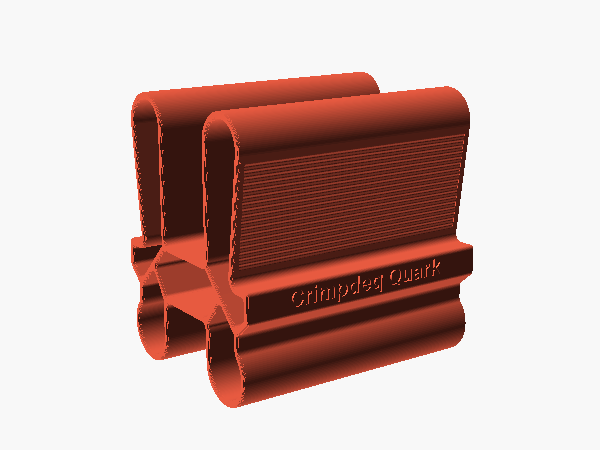
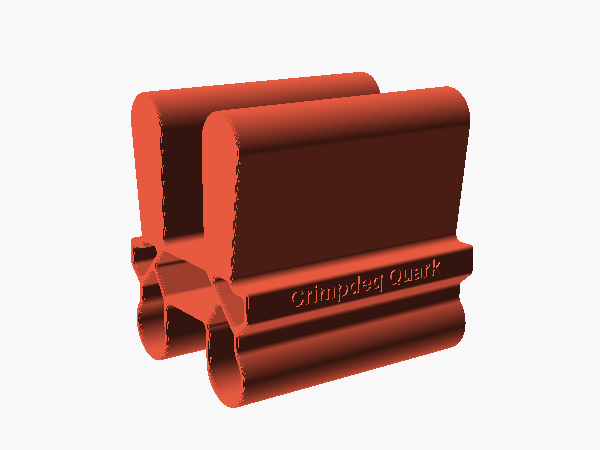
fix: stiffen Quark arms and replace ineffective ridges (#14)

Changed region(s): [[0.33, 0.2489, 0.78, 0.6533], [0.21, 0.2178, 0.27, 0.56]]

diff --git a/docs/src/quark/pinches.md b/docs/src/quark/pinches.md
@@ -13,9 +13,15 @@ on the long arms.
 | Shallow wide | Both heads from outside | 90 mm | |
 | Shallow narrow | One head, the thumb in the gap | 29 mm | 30 mm to the gap's floor |
 
-The long arms widen toward their tips. Their outer faces, where the deep wide pinch holds, carry
-shallow grip ridges (0.4 mm deep, 2.5 mm apart) running along the block, across the direction in
-which the skin slips under load.
+The long arms widen toward their tips. Unlike the hollow hub and cord heads, the long arms are
+solid to reduce flex during the deep wide pinch. They are still separate: for a deep narrow pinch,
+put the thumb between the arms and hold just one ear.
+
+For more traction on the deep wide pinch, try adhesive-backed fine grip tape (around 120–180 grit)
+on the two long arms' outer faces. Cut strips to fit the straight faces, leaving the rounded tips,
+ledge and end edges uncovered. Clean and dry the PETG first; press the tape down firmly and check
+that it does not peel before each session. Start with light loads: abrasive tape can irritate skin.
+Do not put tape on the cord heads or inside their cells.
 
 ## Cord
 
@@ -23,8 +29,9 @@ The cord runs through the cells of both heads and stays there for all four pinch
 1.6 m of 5 mm rated accessory cord: thread it through both heads and knot its two sides together
 below the block. The cord bends over the ends of the head cells, whose edges are rounded.
 
-Quark has not been load-tested. Build up the load gradually, and replace it if it whitens or
-cracks, above all at the ends of the heads.
+The solid-arm revision and grip tape have not been test-printed or load-tested. Build up the load
+gradually, and replace the block if it whitens or cracks, above all at the arm roots and ends of
+the heads. Check whether either arm visibly deflects before using heavier loads.
 
 ## Size
 

diff --git a/docs/src/quark/printing.md b/docs/src/quark/printing.md
@@ -1,6 +1,6 @@
 # Printing
 
-Print Quark in PETG (HF) with these settings. It has not been test-printed yet.
+Print Quark in PETG (HF) with these settings. The solid-arm revision has not been test-printed yet.
 
 | Setting | Value |
 |---|---|
@@ -11,13 +11,14 @@ Print Quark in PETG (HF) with these settings. It has not been test-printed yet.
 | Supports | None |
 | Brim | 5 mm |
 
-The walls are 3 mm thick, so 5 walls print them solid; the infill setting has nothing left to
-fill.
+The hollow hub and head walls are 3 mm thick, so 5 walls print them solid. The long arms now
+have solid cross-sections in the model and receive the selected infill between their perimeters;
+do not use zero infill.
 
 The STL is already in its print pose: standing on an end face, 115 mm tall, the profile flat on the
-plate. In this pose every wall is vertical and needs no supports. Its footprint is only the thin
-walls of the profile, so the brim keeps it from lifting on its first layers. Wash the plate with
-dish soap before printing.
+plate. In this pose the outer walls and cell walls are vertical and need no supports. Its footprint
+includes the thin walls of the profile, so the brim keeps it from lifting on its first layers. Wash
+the plate with dish soap before printing.
 
 Each release has Quark's STL (`crimpdeq-grips-quark.stl`) and a Bambu Studio project for the Bambu
 Lab A1 (`crimpdeq-grips-quark.3mf`) with these settings. To build the project from your own STL:

diff --git a/AGENTS.md b/AGENTS.md
@@ -18,8 +18,8 @@ rerun them.
   font's advance widths (`ADVANCES`; add any new character there). Keep engravings on walls: on
   the top face, the name at the size that fit the nose (2.8) closed up in a test print.
   `quark.scad` is a one-piece four-pinch block in its print pose (standing on an end face), no
-  hand or parts: a hollow profile 90 mm across the heads, with the cord through the head cells and
-  wave-shaped grip ridges cut into the long arms' outer faces (vertical in the print pose). `Crimpdeq Quark` and
+  hand or parts: a hollow profile 90 mm across the heads, with the cord through the head cells and solid long arms for the deep pinch; the outer faces are
+  smooth for optional adhesive grip tape. `Crimpdeq Quark` and
   `crimpdeq.com` are engraved on the stop lugs' outer faces, sized to fill their flat from Inter
   Bold's glyph height and advance widths (`ADVANCES`): the CI snapshot has `textmetrics()` only
   as a disabled experimental feature.
